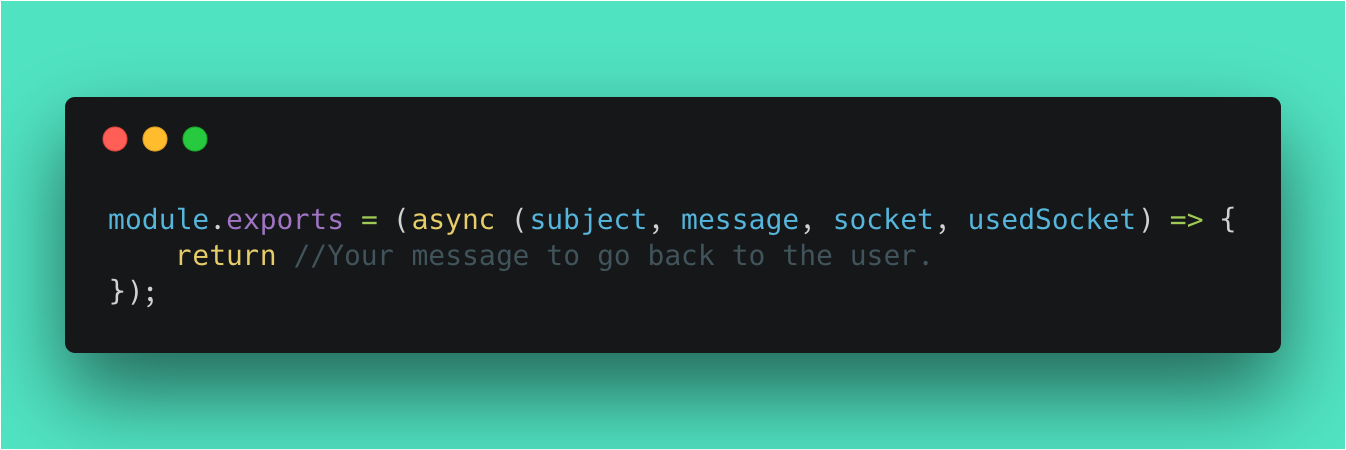
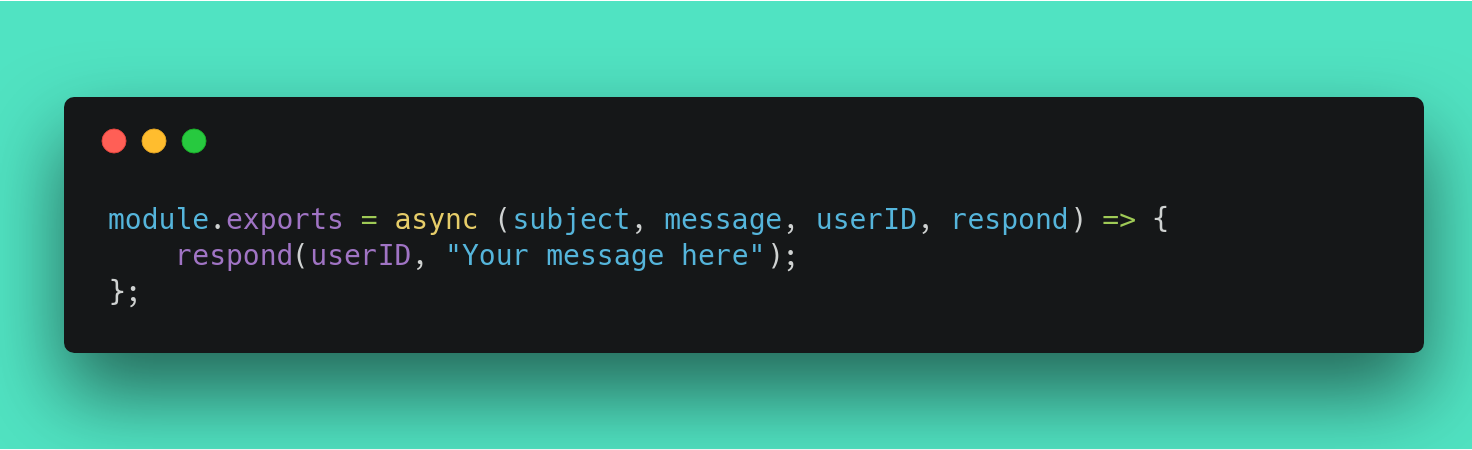
Updated the readme for the new changes.

Changed region(s): [[0.0312, 0.2178, 0.9049, 0.7778], [0.9985, 0.0, 1.0, 1.0], [0.9361, 0.2178, 0.9673, 0.8089]]

diff --git a/README.md b/README.md
@@ -30,7 +30,7 @@ Asher allows for any language that can either use sockets or send get requests t
 Mods are constructed of 3 parts.
 - The Actual mod file `mod.js`
 - The words file `words.txt`, which contains examples of triggers
-- The type file `type.txt`. This is used to tell the system what kind of mod this is.
+- The type file `info.mod`. This is used to tell the system the infomation about the mod, such as the Author, name, and weather to actiavate the module or not.
 
 To start off, we need to create a folder in the `mods` directory for our new Mod.
 We are going to make a mod called `funny`.
@@ -43,16 +43,22 @@ We are going to start work on the `words.txt` file. We now need to decide differ
 
 For more special characters to use inside of your words file. Feel free to head over to the wiki where we explain the different characters used in the words files.
 
-We now need to set the `type.txt` file. As we can see from our words file, our does not fit one of these categories...
-<a href='https://github.com/crazywolf132/AsherAPI/blob/master/mods/funny/type.txt'>
-<img src="https://raw.githubusercontent.com/crazywolf132/AsherAPI/master/img/types.png">
+We now need to set the `info.mod` file. This file will tell the system weather or not to run our file, and what it is called so then the brain can execute it.
+<a href='https://github.com/crazywolf132/AsherAPI/blob/master/mods/funny/info.mod'>
+<img src="https://raw.githubusercontent.com/crazywolf132/AsherAPI/Dev/img/basicInfo.png" />
 </a>
 
-So, we need to set it as `other`. Thats it, our system will be able to do the rest.
+So, this is what we set ours too.
+<a href="https://github.com/crazywolf132/AsherAPI/blob/master/mods/funny/info.mod">
+<img src="https://raw.githubusercontent.com/crazywolf132/AsherAPI/Dev/img/ourInfo.png" />
+</a>
+Thats it, our system will be able to do the rest.
 
 We just now need to work on the actual `mod.js` file!
 Every mod is composed of:
+<a href="https://raw.githubusercontent.com/crazywolf132/AsherAPI/master/mods/basicMods/mod.js">
 <img src="https://raw.githubusercontent.com/crazywolf132/AsherAPI/master/img/basicMod.png">
+</a>
 
 We are going to take that template, and we are going to add our elements to it:
 <a href='https://github.com/crazywolf132/AsherAPI/blob/master/mods/funny/mod.js'>
